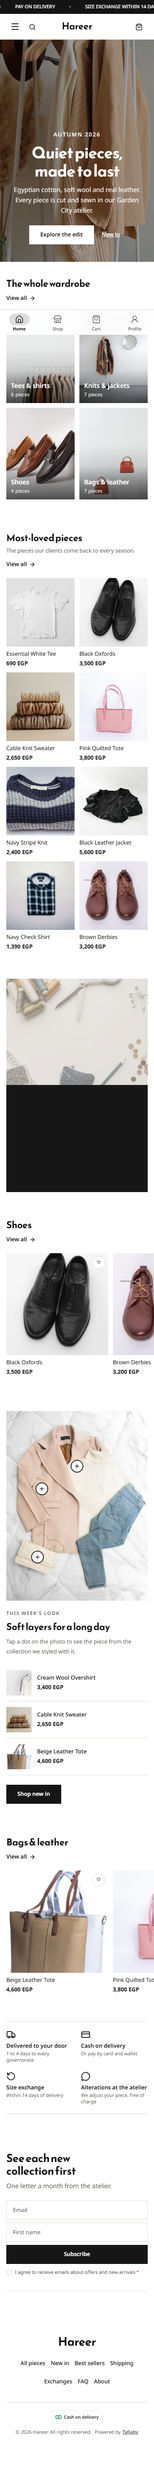
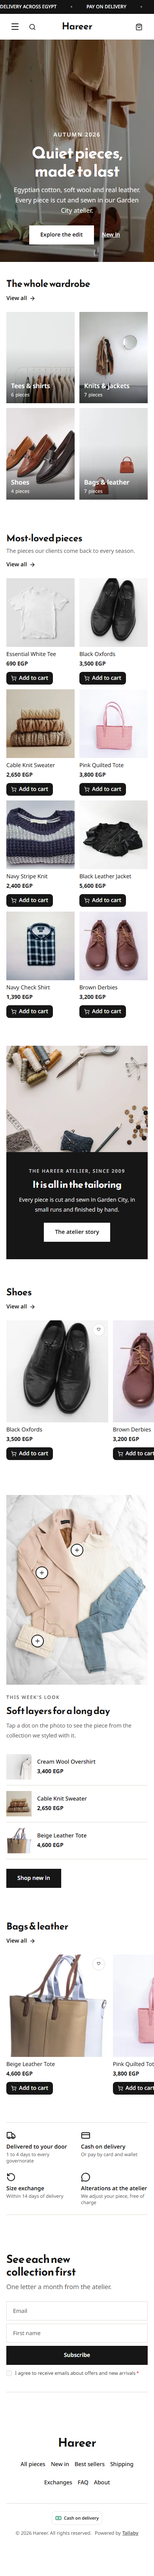
docs(systems): look-first pilot after screenshots, compare page, rules and log (F-89)

diff --git a/docs/systems/pilot/compare.html b/docs/systems/pilot/compare.html
@@ -1,0 +1,170 @@
+<!doctype html>
+<html lang="en">
+  <head>
+    <meta charset="utf-8" />
+    <meta name="viewport" content="width=device-width, initial-scale=1" />
+    <title>Look-first pilot: before and after</title>
+    <style>
+      :root {
+        --bg: #f6f5f2;
+        --panel: #ffffff;
+        --ink: #17181a;
+        --muted: #63666b;
+        --line: #dedcd6;
+        --accent: #17181a;
+        --accent-ink: #ffffff;
+      }
+      @media (prefers-color-scheme: dark) {
+        :root {
+          --bg: #131416;
+          --panel: #1c1e21;
+          --ink: #f1f0ec;
+          --muted: #a4a7ad;
+          --line: #2e3136;
+          --accent: #f1f0ec;
+          --accent-ink: #131416;
+        }
+      }
+      * {
+        box-sizing: border-box;
+      }
+      body {
+        margin: 0;
+        background: var(--bg);
+        color: var(--ink);
+        font: 15px/1.5 system-ui, "Segoe UI", sans-serif;
+      }
+      header {
+        position: sticky;
+        top: 0;
+        z-index: 2;
+        background: var(--bg);
+        border-bottom: 1px solid var(--line);
+        padding: 14px 16px;
+      }
+      h1 {
+        margin: 0 0 4px;
+        font-size: 18px;
+      }
+      header p {
+        margin: 0 0 12px;
+        color: var(--muted);
+        max-width: 70ch;
+      }
+      .controls {
+        display: flex;
+        flex-wrap: wrap;
+        gap: 16px;
+      }
+      .group {
+        display: flex;
+        flex-wrap: wrap;
+        gap: 6px;
+      }
+      button {
+        font: inherit;
+        padding: 6px 12px;
+        border: 1px solid var(--line);
+        border-radius: 999px;
+        background: var(--panel);
+        color: var(--ink);
+        cursor: pointer;
+      }
+      button[aria-pressed="true"] {
+        background: var(--accent);
+        color: var(--accent-ink);
+        border-color: var(--accent);
+      }
+      main {
+        display: grid;
+        grid-template-columns: 1fr 1fr;
+        gap: 16px;
+        padding: 16px;
+        align-items: start;
+      }
+      main.phone {
+        max-width: 880px;
+        margin-inline: auto;
+      }
+      figure {
+        margin: 0;
+        background: var(--panel);
+        border: 1px solid var(--line);
+        border-radius: 12px;
+        overflow: hidden;
+      }
+      figcaption {
+        padding: 10px 14px;
+        font-weight: 600;
+        border-bottom: 1px solid var(--line);
+      }
+      img {
+        display: block;
+        width: 100%;
+        height: auto;
+      }
+      @media (max-width: 640px) {
+        main {
+          grid-template-columns: 1fr;
+        }
+      }
+    </style>
+  </head>
+  <body>
+    <header>
+      <h1>Look-first pilot: before and after</h1>
+      <p>
+        Three templates rebuilt on the upgraded sections (2026-11-11). Before shots show the scroll position of a single capture, so the story photo is blank there; that was a real bug and
+        is fixed. To try the live result, run the storefront and open <code>/template-preview/&lt;template&gt;</code>.
+      </p>
+      <div class="controls">
+        <div class="group" data-group="template">
+          <button data-value="fashion-luxe">Hareer (fashion)</button>
+          <button data-value="perfumes-bold">Perfumes</button>
+          <button data-value="tallaby-classic">Tallaby Classic</button>
+        </div>
+        <div class="group" data-group="width">
+          <button data-value="1280">Desktop</button>
+          <button data-value="390">Phone</button>
+        </div>
+        <div class="group" data-group="locale">
+          <button data-value="ar">Arabic</button>
+          <button data-value="en">English</button>
+        </div>
+        <div class="group" data-group="shot">
+          <button data-value="full">Whole page</button>
+          <button data-value="fold">First screen</button>
+        </div>
+      </div>
+    </header>
+    <main>
+      <figure>
+        <figcaption>Before</figcaption>
+        <img id="before" alt="The template before the pilot" />
+      </figure>
+      <figure>
+        <figcaption>After</figcaption>
+        <img id="after" alt="The template after the pilot" />
+      </figure>
+    </main>
+    <script>
+      const state = { template: "fashion-luxe", width: "1280", locale: "ar", shot: "full" };
+      const draw = () => {
+        const name = `${state.template}-${state.width}-${state.locale}-${state.shot}.png`;
+        document.getElementById("before").src = `before/${name}`;
+        document.getElementById("after").src = `after/${name}`;
+        document.querySelector("main").classList.toggle("phone", state.width === "390");
+        for (const group of document.querySelectorAll("[data-group]")) {
+          for (const button of group.querySelectorAll("button")) button.setAttribute("aria-pressed", String(button.dataset.value === state[group.dataset.group]));
+        }
+      };
+      document.addEventListener("click", (event) => {
+        const button = event.target.closest("[data-group] button");
+        if (!button) return;
+        state[button.parentElement.dataset.group] = button.dataset.value;
+        draw();
+      });
+      draw();
+    </script>
+  </body>
+</html>

diff --git a/ROADMAP.md b/ROADMAP.md
@@ -1266,7 +1266,7 @@ Add each new request here first, with the date and the owner's words, then turn 
 | ---------- | ------------------------------------------------------------------------------------------------------------------------------------------------------------------------------------------------------------------------------------------------------------------------------------------------------------------------------------------------------------------------------------------------------------------------------------------------------------------------------------------------------------------------------------------------------------------------------------------------------------- | ------------------------------------------------------------------------------------------------ | -------------------------------------------------------------------------------------------------- |
 | 2026-11-11 | Audit and upgrade the storefront motion system ("motion v2") so store sites feel as smooth and premium as the best Shopify themes, with our own runtime (no animation library): scroll-progress engine, parallax, zoom on scroll, hero exit, sticky steps, progress bar, word and wipe reveals, smoother stagger and tokens, second-photo hover, count-up stats, carousel and button polish, Theme › Motion Intensity and section Scroll effect; plan first, then build, pilot 6 designs and 3 templates, before/after videos and perf numbers | F-88 | Building on `feat/motion-v2` (plan approved; engine, settings, pilots and 3 templates done; QA, videos, perf, docs left; §7 2026-11-11) |
 | 2026-11-11 | Build a scalable section system and template system for store sites: no duplicate sections, every section a deliberate Shopify-level variant with a manifest, a uniqueness gate, a shared design kit and style-family tokens; templates composed from sections by blueprints, one art direction and white-background product photos; the AI store builder picks sections and templates from metadata; improving a section improves every template that uses it; audit and plan first, then hero and 3 templates as the pilot | F-89 | Plan written (`docs/systems/plan.md`, branch `feat/section-system`, 2026-11-11); the system phases wait for the look-first pilot |
-| 2026-11-11 | Customers say the sections and templates look old and badly designed; make them look like expensive Shopify themes: professional hero, category and product photos (products as white-background PNGs), motion, hover effects, smoothness, a before/after section with a draggable vertical handle, a section with dots on a photo that show product or part information in a popover, and scroll-based motion that completes on the way down and reverses on the way up | F-89 | Look-first pilot started on the owner's go-ahead (2026-11-11): baseline, product stage, before/after and hotspot elements and two scroll effects built; product card, photos and the three template rebuilds in progress (§7) |
+| 2026-11-11 | Customers say the sections and templates look old and badly designed; make them look like expensive Shopify themes: professional hero, category and product photos (products as white-background PNGs), motion, hover effects, smoothness, a before/after section with a draggable vertical handle, a section with dots on a photo that show product or part information in a popover, and scroll-based motion that completes on the way down and reverses on the way up | F-89 | Look-first pilot started on the owner's go-ahead (2026-11-11): baseline, product stage, before/after and hotspot elements and two scroll effects built; product card, section upgrades, photo sets and the three template rebuilds done; stopped for owner review (§7, `docs/systems/pilot/compare.html`) |
 | 2026-11-10 | Make each of a seller's stores a fully separate store: own products, theme, design, shipping, domain/subdomain, payment methods, installed apps, currency, settings, and its own wallet balance. Existing products: each store keeps what it shows today (copies, history on the original); "Copy to store" on /products with the same stock; per-store activation, seller categories and brands; Pro, AI credits and store limit stay per account, and account charges are paid from the primary store; today's balance moves to the primary store | F-87 | Planned (plan: `docs/plans/stores-separation.md`) |
 | 2026-11-10 | Comparison pages for EasyOrders, Shopify, WooCommerce, ExpandCart, Salla and Zid vs Tallaby, with fresh research, using Shopify's comparison pages as the content reference and the Claude Design "Compare.html" design; alternatives pages for EasyOrders and Shopify if time allows; keep them gated | F-53 follow-up (F-53d, SEO_PLAN.md Phase 3) | Live in code: S-06 approved 2026-11-10 (`COMPARE_PUBLIC = true`); public with the next deploy |
 | 2026-11-10 | "Ecommerce by Industry" pages on tallaby.com, with Shopify's industry pages as the content reference: an `/industries` hub (Claude Design "Hub Page") listing every industry, each industry page on the "Industry Page" design, and the SEO_PLAN.md industries N1–N11 that aren't built yet | F-53 follow-up (F-53c): `/industries` hub + 11 industry pages, built 2026-11-10 (§7) |
@@ -1705,6 +1705,17 @@ Add each new request here first, with the date and the owner's words, then turn 
 - **No migration.** Sections and templates are code-only.
 - **Tests:** store-sections 9,906 pass, store-editor 203 pass, typecheck clean for store-sections, store-editor and dashboard. `apps/ecommerce` typecheck fails only in `profile.chunks.tsx` (address form types, not part of this work).
 - **Left:** the one product card (L2b), style tokens (L3), white-background photo sets (L4), the three template rebuilds (L7), after screenshots (L8).
+
+### 2026-11-11 — F-89 look-first pilot: three templates rebuilt, stopped for owner review (branch `feat/section-system`, local commits, not pushed)
+
+- **Templates** (code-only, no migration; stores keep their own copies): Hareer (`fashion-luxe`) v3 and `perfumes-bold` v2 (`29af740e`), Tallaby Classic v8 (`8dc1ae74`). Each home: hero, photo category tiles, a studio-packshot product grid on a product stage, a two-tone story with `reveal-scrub`, product rows with a photo-led break, a promises row and a one-row newsletter. Hareer adds shop the look with product dots; `perfumes-bold` a bottle with three note dots; Classic an FAQ split. Classic's home is now library designs through `fromLibrary`; its header stays its own and its v7 home designs stay exported.
+- **Demo catalogs:** Hareer 24 products in 4 categories (dresses dropped), `perfumes-bold` 33 in 5, Classic 12 in 4 (speakers and cables dropped).
+- **Template preview** (`c47a598c`): draws a still copy of the storefront's add-to-cart button, so the card is seen as a store draws it.
+- **Rules:** `docs/template-rules.md` allows one photo-tool section as a visual break and describes the look-first home; `niche-templates.test.ts` checks that rhythm for the two rebuilt niche templates.
+- **Proof:** `docs/systems/pilot/after/` (24 screenshots, same names as `before/`; full pages taken with reduced motion so scroll-driven copy shows) and `docs/systems/pilot/compare.html` (open the file; before and after side by side). No sideways overflow at 390 or 1280 px in either language. No scroll videos and no performance re-run.
+- **Tests:** store-sections 9,927 pass, store-editor 203, lib 1,322 (integration tests skipped: no `TEST_DATABASE_URL`; two of them were edited for Classic's new hero id and are unrun). Typecheck clean except the old `profile.chunks.tsx` errors.
+- **Owner decisions waiting:** (1) phones crop the hero photo tall with the copy on it, against the 2026-11-04 rule; (2) Classic v8 becomes every new store's starting site on deploy; (3) product photos are Pexels packshots whose backgrounds still differ a little: keep, or pay for generated or shot photos.
+- **Left:** the wishlist heart on the new card (Classic lost it on the home page); a label per dot and on the photos and hairlines of the new designs, so templates patch them without local helpers; a photo focal point; carousel corners at full width; the stage on the product page gallery; the live inline newsletter form and the real add-to-cart button seen in a real store; `reveal-scrub` and `horizontal` on Firefox (they fall back to the ordinary reveal and row); the other 116 templates; Phases 1 to 4 of the plan.
 
 ### 2026-11-11 — F-89 look-first pilot: section upgrades (branch `feat/section-system`, local commits, not pushed)
 

diff --git a/docs/template-rules.md b/docs/template-rules.md
@@ -44,7 +44,9 @@ Limits:
 - **At most 10 sections** between header and footer (the standard ones plus at most two visual breaks). Most templates should use 7 to 9.
 - **Rhythm**: two product sections never sit next to each other without a visual break or a change of section scheme between them; the section schemes alternate (`default`, `muted`, `default`…) and never three `dark` sections in a row.
 - Product rails show **4 products on desktop, 2 on mobile** (a grid or a swipeable rail), never more than 8.
-- Do **not** add these to a template home page: before/after sliders, video playlists, popups, loyalty, product finders, long text blocks. They stay in the section library so a seller can add them. (Tabbed product lists may replace the best-sellers or new-arrivals rail; bento layouts are allowed inside a banner grid or hero.)
+- Do **not** add these to a template home page: video playlists, popups, loyalty, product finders, long text blocks. They stay in the section library so a seller can add them. (Tabbed product lists may replace the best-sellers or new-arrivals rail; bento layouts are allowed inside a banner grid or hero.)
+- **One photo-tool section is allowed as a visual break** (look-first pilot, 2026-11-11; the owner left the choice to us): a photo with dots (`gallery-shop-look`, `about-product-anatomy`) or the before/after slider (`about-before-after`), at most one per home page, and only with the template's own photo and real copy.
+- **Look-first home** (`fashion-luxe` v3, `perfumes-bold` v2, `tallaby-classic` v8; `docs/systems/plan.md` §10): hero, categories, then at most nine sections in all, a photo-led break between any two product sections, the newsletter last, a product stage so every product photo shares one frame, and demo products only from clean studio packshots (a category without them leaves the demo). `niche-templates.test.ts` checks this rhythm for the rebuilt niche templates in place of the fixed 12-slot home.
 - A template can change the **look** of each standard section (layout, cards, colours, corners, fonts), but not the order or the purpose.
 
 ## 2a. Section order (every template, owner 2026-10-27)

diff --git a/docs/systems/plan.md b/docs/systems/plan.md
@@ -1,6 +1,6 @@
 # Section system and template system: audit and plan (Phase 0)
 
-**Status (2026-11-11): the look-first pilot in §10 is being built on the owner's go-ahead (L1, L2, L5 and L6 done; see `ROADMAP.md` §7). Phases 1 to 4 are not started.** Branch `feat/section-system`, cut from `feat/motion-v2` (`62bb38b4`).
+**Status (2026-11-11): the look-first pilot in §10 is being built on the owner's go-ahead (L1 to L8 done except the L3 token layer; stopped for owner review, see `ROADMAP.md` §7 and `pilot/compare.html`). Phases 1 to 4 are not started.** Branch `feat/section-system`, cut from `feat/motion-v2` (`62bb38b4`).
 
 The goal is a section library with no duplicates, templates composed from sections by rules, an AI store builder that picks from metadata, and section improvements that reach every template that uses the section.
 
